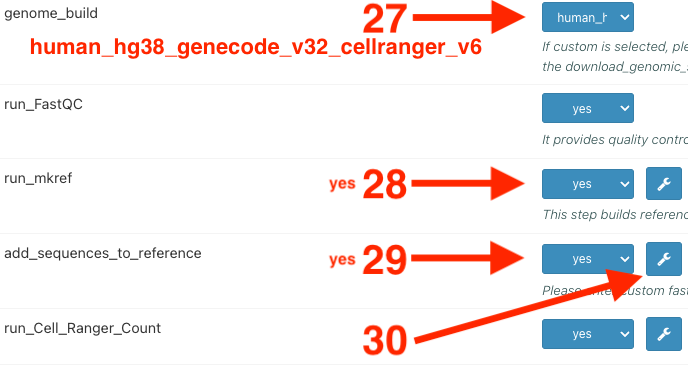
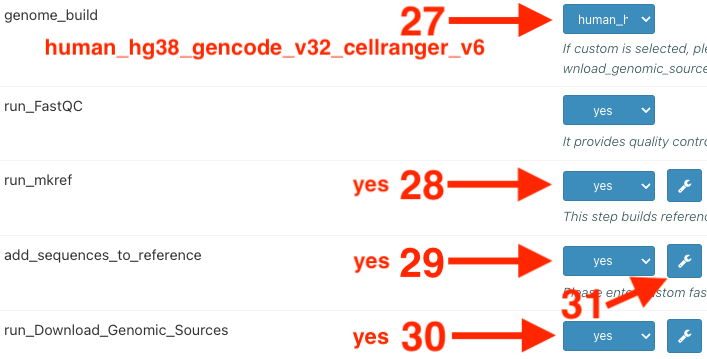
fix gencode type, process order update

diff --git a/demo_single_cell_rna-seq_tutorial.md b/demo_single_cell_rna-seq_tutorial.md
@@ -100,11 +100,14 @@ Metadata can be entered in three ways: Via a path to a file in the cloud, droppi
 Pick the genome by (27) selecting "human_hg38_gencode_v32_cellranger_v6" in the `genome_build` dropdown. 
 
 If you prefer to add custom genome sequence to selected genome_build, enable three inputs:
- - set `run_mkref` to "Yes"
- - set `add_sequences_to_reference` to "Yes"
- - set `run_Download_Genomic Sources` to "Yes"
 
-To supply the new sequences (30) click the wrench in the `add_sequences_to_reference` section.
+ - set `run_mkref` to "Yes" (28)
+ 
+ - set `add_sequences_to_reference` to "Yes" (29)
+
+ - set `run_Download_Genomic Sources` to "Yes" (30)
+
+To supply the new sequences (31) click the wrench in the `add_sequences_to_reference` section.
 
 <p align="center"> <img src="sc-rnaseq_images/user_inputs2.png" width="60%"> </p>
 
